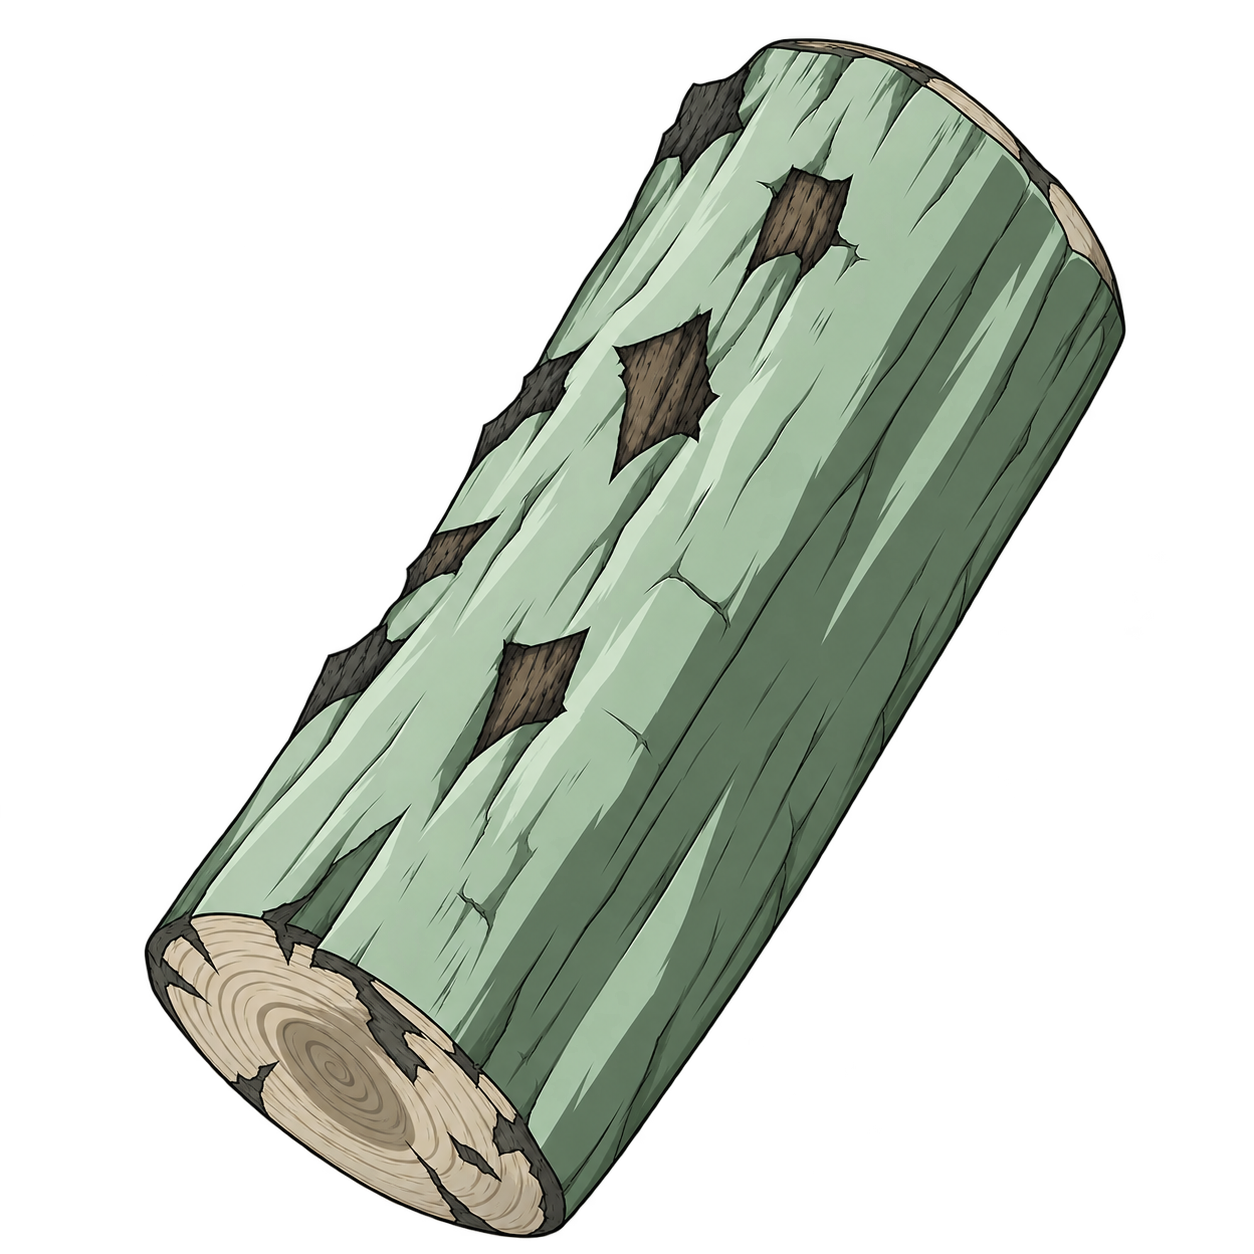
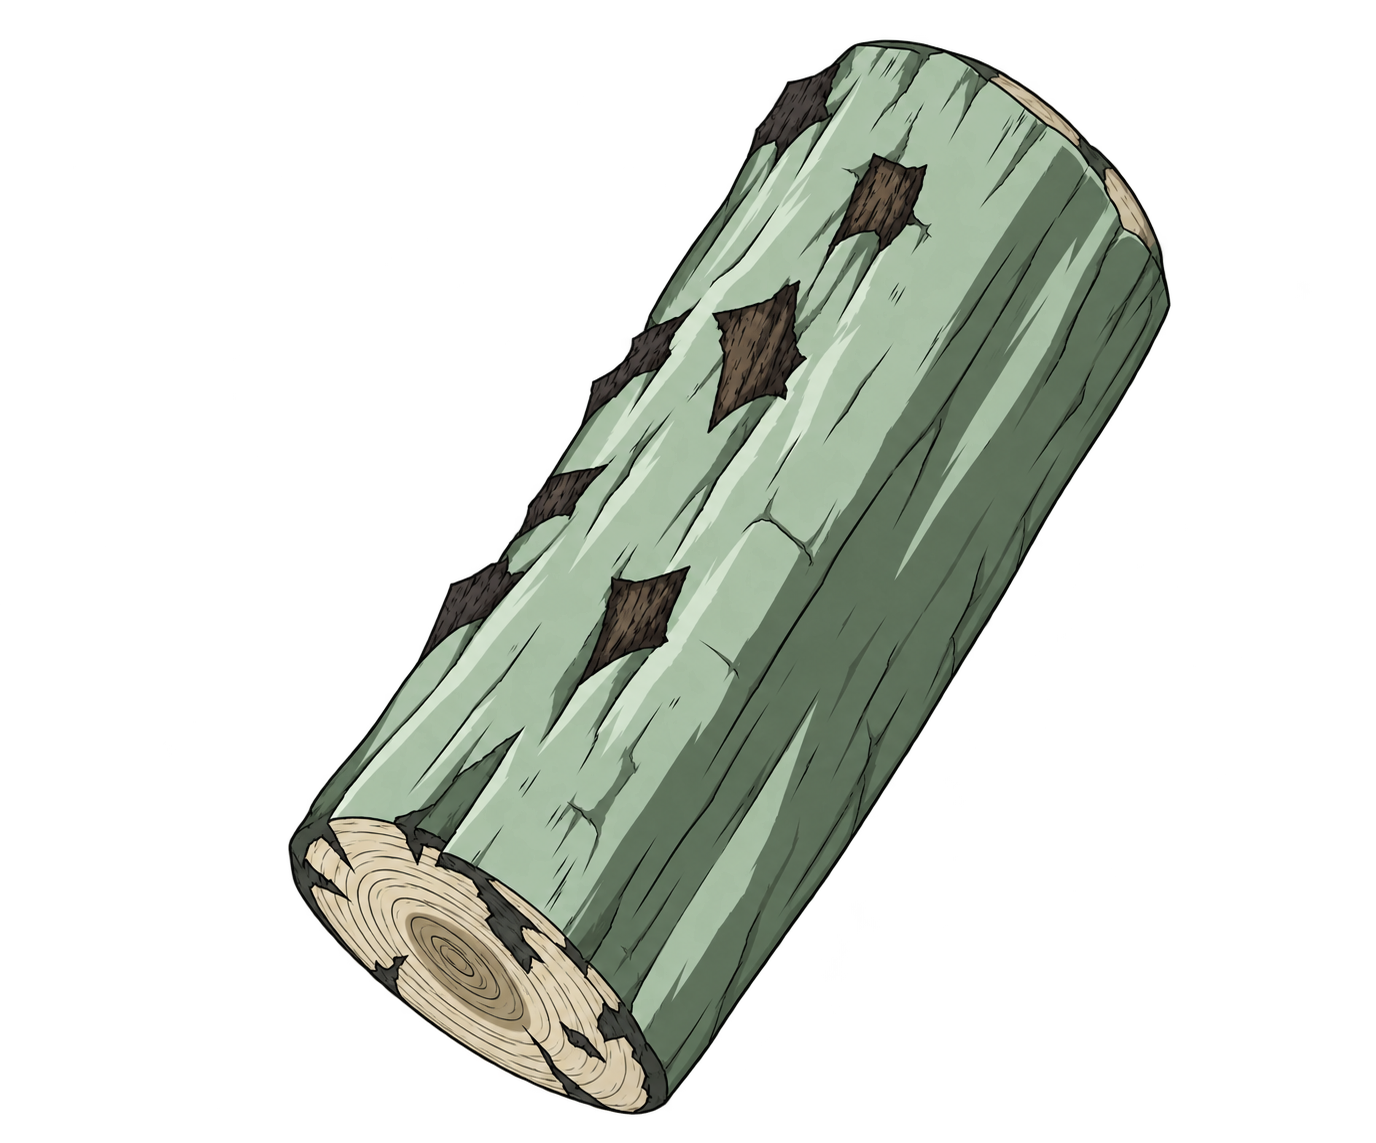
Manter somente o tronco classico e abrir o efeito diretamente
Preservar a animacao e o gesto da primeira versao, melhorar a mesma ilustracao anime do tronco e manter as correcoes de composicao alfa, fechamento e recalibracao. Remover a selecao dos demais efeitos e atualizar os guias.

Validacao: 44 testes automatizados aprovados; modelos, transparencia e audio verificados.

Changed region(s): [[0.0933, 0.0306, 0.9019, 1.0]]

diff --git a/vanish_cam.py b/vanish_cam.py
@@ -1,4 +1,4 @@
-"""Webcam locale: dissolvenza avviata dal gesto con indice e medio a V."""
+"""PeraVanishCam: substituicao classica por tronco com as maos juntas."""
 
 from __future__ import annotations
 
@@ -77,7 +77,7 @@ def positive_fps(value: str) -> float:
 
 def parse_args() -> argparse.Namespace:
     parser = argparse.ArgumentParser(
-        description="Escolha o efeito Normal ou Naruto para sua webcam."
+        description="Substituicao classica por tronco para sua webcam."
     )
     parser.add_argument("--camera", type=int, default=0, help="Numero da webcam (0 = primeira camera)")
     parser.add_argument("--width", type=int, default=960, help="Largura do video")
@@ -99,8 +99,8 @@ def parse_args() -> argparse.Namespace:
     )
     parser.add_argument("--virtual-device", help="Nome do dispositivo de camera virtual")
     parser.add_argument(
-        "--mode", choices=("normal", "naruto"),
-        help="Abrir diretamente o modo normal ou naruto",
+        "--mode", choices=("naruto",), default="naruto",
+        help="Efeito de substituicao por tronco (padrao: naruto)",
     )
     parser.add_argument(
         "--gesture-debug", action="store_true",
@@ -110,51 +110,6 @@ def parse_args() -> argparse.Namespace:
     parser.add_argument("--som", dest="sound", type=Path, help="Arquivo MP3 ou WAV para o efeito Naruto")
     parser.add_argument("--teste-som", action="store_true", help="Tocar o efeito uma vez, sem abrir a camera")
     return parser.parse_args()
-
-
-def choose_mode() -> str | None:
-    """Simple keyboard/mouse menu shown before the clean camera feed."""
-    title = "PeraVanishCam - Escolha o efeito"
-    selected = [None]
-    window = np.zeros((420, 700, 3), dtype=np.uint8)
-    window[:] = (26, 29, 34)
-    cv2.putText(window, "PERAVANISHCAM", (68, 88),
-                cv2.FONT_HERSHEY_SIMPLEX, 0.85, (236, 239, 242), 2, cv2.LINE_AA)
-    buttons = (
-        ("normal", "1  NORMAL VANISH", "Gesto em V  /  dissolver imagem", 140),
-        ("naruto", "2  NARUTO VANISH", "Maos juntas  /  tronco e fumaca", 260),
-    )
-    for mode, heading, detail, top in buttons:
-        cv2.rectangle(window, (65, top), (635, top + 94), (48, 54, 62), -1, cv2.LINE_AA)
-        cv2.rectangle(window, (65, top), (635, top + 94), (111, 142, 153), 2, cv2.LINE_AA)
-        cv2.putText(window, heading, (90, top + 38),
-                    cv2.FONT_HERSHEY_SIMPLEX, 0.77, (240, 245, 247), 2, cv2.LINE_AA)
-        cv2.putText(window, detail, (90, top + 68),
-                    cv2.FONT_HERSHEY_SIMPLEX, 0.53, (179, 195, 201), 1, cv2.LINE_AA)
-
-    def on_mouse(event, x, y, flags, userdata):
-        if event == cv2.EVENT_LBUTTONUP and 65 <= x <= 635:
-            for mode, _, _, top in buttons:
-                if top <= y <= top + 94:
-                    selected[0] = mode
-
-    cv2.namedWindow(title, cv2.WINDOW_AUTOSIZE)
-    cv2.setMouseCallback(title, on_mouse)
-    try:
-        while selected[0] is None:
-            cv2.imshow(title, window)
-            key = cv2.waitKey(30) & 0xFF
-            if key == ord("1"):
-                selected[0] = "normal"
-            elif key == ord("2"):
-                selected[0] = "naruto"
-            elif key in (ord("q"), 27):
-                return None
-            if cv2.getWindowProperty(title, cv2.WND_PROP_VISIBLE) < 1:
-                return None
-        return selected[0]
-    finally:
-        cv2.destroyWindow(title)
 
 
 def open_virtual_camera(args: argparse.Namespace, width: int, height: int):
@@ -190,7 +145,7 @@ def send_virtual_frame(camera, frame: np.ndarray) -> None:
     camera.send(np.ascontiguousarray(frame))
 
 
-def download_models(mode: str = "normal") -> None:
+def download_models(mode: str = "naruto") -> None:
     MODEL_DIR.mkdir(parents=True, exist_ok=True)
     for destination, url in MODEL_URLS.items():
         if mode == "naruto" and destination == GESTURE_MODEL:
@@ -244,7 +199,7 @@ def open_camera(index: int, width: int, height: int) -> cv2.VideoCapture:
     return capture
 
 
-def create_tasks(mode: str = "normal") -> tuple[vision.ImageSegmenter, MultiViewGestureRecognizer | MultiViewHandLandmarker]:
+def create_tasks(mode: str = "naruto") -> tuple[vision.ImageSegmenter, MultiViewGestureRecognizer | MultiViewHandLandmarker]:
     segmenter_options = vision.ImageSegmenterOptions(
         base_options=python.BaseOptions(model_asset_path=str(SEGMENTER_MODEL)),
         running_mode=vision.RunningMode.VIDEO,
@@ -636,7 +591,7 @@ def set_fullscreen(enabled: bool) -> None:
 
 def self_test() -> int:
     """Check bundled resources and model initialization without opening a webcam."""
-    required = (SEGMENTER_MODEL, GESTURE_MODEL, HAND_MODEL, SOUND_PATH)
+    required = (SEGMENTER_MODEL, HAND_MODEL, SOUND_PATH)
     missing = [path.name for path in required if not path.is_file()]
     if missing:
         raise RuntimeError(f"Arquivos necessarios ausentes: {', '.join(missing)}")
@@ -656,7 +611,7 @@ def self_test() -> int:
             os.environ.pop("SDL_AUDIODRIVER", None)
         else:
             os.environ["SDL_AUDIODRIVER"] = previous_driver
-    for mode in ("normal", "naruto"):
+    for mode in ("naruto",):
         segmenter, recognizer = create_tasks(mode)
         try:
             recognizer.close()
@@ -679,9 +634,7 @@ def run() -> int:
         finally:
             sound.close()
         return 0
-    mode = args.mode or choose_mode()
-    if mode is None:
-        return 0
+    mode = args.mode or "naruto"
     with ExitStack() as resources:
         return run_camera(args, resources, mode)
 
@@ -746,8 +699,6 @@ def run_camera(args: argparse.Namespace, resources: ExitStack, mode: str) -> int
             now = time.perf_counter()
             current_shape = (height, width)
             if frame_shape is not None and current_shape != frame_shape:
-                # A driver can renegotiate its frame size after opening. The
-                # old background/masks cannot be composited with the new size.
                 background = None
                 background_samples.clear()
                 state.phase = "calibrating"
@@ -879,6 +830,7 @@ def run_camera(args: argparse.Namespace, resources: ExitStack, mode: str) -> int
                 state.calibration_started = now
                 state.vanish_started = None
                 log_anchor = None
+                log_cache.clear()
                 last_mask = None
                 last_mask_at = float("-inf")
                 vanished_frame = None
@@ -891,6 +843,7 @@ def run_camera(args: argparse.Namespace, resources: ExitStack, mode: str) -> int
                     state.vanish_started = None
                     vanished_frame = None
                     log_anchor = None
+                    log_cache.clear()
                     last_mask = None
                     last_mask_at = float("-inf")
             elif key == ord("v") and background is not None:

diff --git a/test_naruto_effect.py b/test_naruto_effect.py
@@ -142,7 +142,7 @@ class EffectTests(unittest.TestCase):
         np.testing.assert_array_equal(output, expected)
 
 
-class MenuTests(unittest.TestCase):
+class StartupTests(unittest.TestCase):
     def test_removed_effects_cannot_be_selected_from_command_line(self):
         for mode in ("clones", "transformation"):
             with self.subTest(mode=mode), patch("sys.argv", ["PeraVanishCam", "--mode", mode]), patch("sys.stderr", new_callable=io.StringIO):
@@ -152,17 +152,12 @@ class MenuTests(unittest.TestCase):
         with patch("sys.argv", ["PeraVanishCam", "--mode", "naruto"]):
             self.assertEqual(app.parse_args().mode, "naruto")
 
-    def test_keyboard_selection(self):
-        with ExitStack() as mocks:
-            mocks.enter_context(patch.object(app.cv2, "getWindowProperty", return_value=1))
-            mocks.enter_context(patch.object(app.cv2, "namedWindow"))
-            mocks.enter_context(patch.object(app.cv2, "setMouseCallback"))
-            mocks.enter_context(patch.object(app.cv2, "imshow"))
-            mocks.enter_context(patch.object(app.cv2, "destroyWindow"))
-            key = mocks.enter_context(patch.object(app.cv2, "waitKey", return_value=ord("2")))
-            self.assertEqual(app.choose_mode(), "naruto")
-            key.return_value = ord("1")
-            self.assertEqual(app.choose_mode(), "normal")
+    def test_default_starts_classic_substitution_directly(self):
+        with patch("sys.argv", ["PeraVanishCam"]):
+            self.assertEqual(app.parse_args().mode, "naruto")
+        with patch("sys.argv", ["PeraVanishCam", "--mode", "normal"]), patch("sys.stderr"):
+            with self.assertRaises(SystemExit):
+                app.parse_args()
 
 
 class NarutoVideoLoopTests(unittest.TestCase):

diff --git a/README.md b/README.md
@@ -1,32 +1,22 @@
-<p align="center"><img src="assets/peravanishcam-banner.svg" alt="PeraVanishCam — por Bruno Michel Pera" width="100%"></p>
-
 # PeraVanishCam
 
-**Versão mantida e personalizada por Bruno Michel Pera.** Efeitos de desaparecimento para webcam, reconhecimento por gestos e som personalizado, com instruções em português.
+<p align="center"><strong>Download direto · Windows 64 bits · Não precisa instalar Python</strong><br>
+<a href="https://github.com/perabru/PeraVanishCam/releases/latest/download/PeraVanishCam.exe"><strong>Clique aqui para baixar PeraVanishCam.exe</strong></a> · <a href="https://github.com/perabru/PeraVanishCam/releases/latest/download/PeraVanishCam-Windows-x64.zip">Pacote ZIP com os guias</a></p>
 
-[Baixar para Windows](https://github.com/perabru/PeraVanishCam/releases/latest) · [Instalar e começar](docs/INSTALACAO_E_USO.md) · [Usar no Google Meet](GUIA_GOOGLE_MEET_PTBR.md) · [Apoiar com Pix](#apoie-com-pix)
+<p align="center"><img src="assets/peravanishcam-banner.svg" alt="PeraVanishCam — por Bruno Michel Pera" width="100%"></p>
 
-## Versão clássica restaurada
+**Versão mantida e personalizada por Bruno Michel Pera.** Substituição em tronco para webcam, com o efeito clássico da primeira versão, reconhecimento por mãos juntas e som personalizado. A imagem do tronco foi aprimorada mantendo o desenho e as cores originais.
 
-Esta edição retoma o menu, os gestos, a fumaça e a queda do tronco da primeira
-versão (1.0.1). Os modos de clones e de transformação foram removidos.
-O tronco mantém a ilustração original em verde suave, agora com contornos mais
-limpos, detalhes de madeira mais nítidos e composição com transparência sem halo.
+[Baixar o executável (.exe)](https://github.com/perabru/PeraVanishCam/releases/latest/download/PeraVanishCam.exe) · [Instalar e começar](docs/INSTALACAO_E_USO.md) · [Usar no Google Meet](GUIA_GOOGLE_MEET_PTBR.md) · [Apoiar com Pix](#apoie-com-pix)
 
-**[Baixar PeraVanishCam.exe](https://github.com/perabru/PeraVanishCam/releases/latest/download/PeraVanishCam.exe)**
+## Começar em quatro passos
 
-## Começar em cinco passos
+1. Clique em **[BAIXAR EXECUTÁVEL PARA WINDOWS (.EXE)](https://github.com/perabru/PeraVanishCam/releases/latest/download/PeraVanishCam.exe)** no início desta página.
+2. Abra **PeraVanishCam.exe** com dois cliques. A versão pronta não precisa de Python. Se preferir o pacote ZIP com os guias, extraia todos os arquivos antes de abrir.
+3. O efeito do tronco abre diretamente. Saia do enquadramento por **4 segundos** para capturar o fundo. Depois volte.
+4. Junte as palmas, com os dedos lado a lado e as duas mãos visíveis, ou pressione **V** na janela da câmera.
 
-1. Em **[Releases](https://github.com/perabru/PeraVanishCam/releases/latest)**, baixe **PeraVanishCam-Windows-x64.zip**.
-2. Extraia todos os arquivos e abra **PeraVanishCam.exe**. A versão pronta não precisa de Python.
-3. Escolha **1 — Normal** ou **2 — Naruto**.
-4. Saia do enquadramento por **4 segundos** para capturar o fundo. Depois volte.
-5. Faça o gesto do modo escolhido ou pressione **V** na janela da câmera.
-
-| Modo | Como ativar | Efeito |
-| --- | --- | --- |
-| Normal | Indicador e médio formando V | Desaparecimento gradual |
-| Naruto | Palmas juntas, dedos lado a lado, duas mãos visíveis | Fumaça, tronco e som ao desaparecer |
+Você desaparece com a fumaça original, o tronco cai e permanece no cenário. Pressione **R** para reaparecer.
 
 O vídeo é processado no seu computador. O aplicativo não grava a câmera nem envia suas imagens para servidores. Depois de baixar o executável, os modelos necessários já estão no pacote.
 
@@ -38,7 +28,7 @@ O vídeo é processado no seu computador. O aplicativo não grava a câmera nem 
 
 | Tecla | Ação |
 | --- | --- |
-| V | Ativar o efeito; no Naruto também toca o som |
+| V | Ativar o efeito do tronco e tocar o som |
 | R | Reaparecer |
 | Espaço | Capturar novamente o fundo; saia do quadro por 4 segundos |
 | F | Alternar tela cheia |
@@ -48,7 +38,7 @@ Clique na janela da câmera antes de usar as teclas. Mantenha a câmera parada d
 
 ## Personalizar o som
 
-Coloque **som.mp3** ou **som.wav** na mesma pasta de **PeraVanishCam.exe** e reabra o aplicativo. O arquivo será utilizado no modo Naruto. Se os dois existirem, o MP3 tem prioridade. Remova ou renomeie o arquivo para voltar ao som padrão.
+Coloque **som.mp3** ou **som.wav** na mesma pasta de **PeraVanishCam.exe** e reabra o aplicativo. O arquivo será utilizado no efeito do tronco. Se os dois existirem, o MP3 tem prioridade. Remova ou renomeie o arquivo para voltar ao som padrão.
 
 Use **TESTAR_SOM.bat** para testar o áudio sem abrir a câmera.
 

diff --git a/assets/README.md b/assets/README.md
@@ -1,27 +1,16 @@
-# Substitution log sprite
+# Tronco de substituição
 
-`substitution_log.png` was generated with the built-in ImageGen tool. The user
-image was used as a visual reference for object shape and mood, not as an edit
-target. The sprite is an original transparent-background illustration.
+`substitution_log.png` é uma ilustração original com fundo transparente, gerada
+com ImageGen e aprimorada a partir da imagem da primeira versão. A edição
+preserva o tronco diagonal, a casca verde-sálvia, a ponta cortada à esquerda e
+o acabamento de anime com cel shading.
 
-Final prompt:
+Prompt da edição:
 
-> Create a single ORIGINAL 2D hand-painted anime-style game sprite for live video compositing, using the user's attached image ONLY as a visual reference for the object and mood. Subject: one short thick wooden substitution log floating diagonally (bottom-left to top-right), soft desaturated pale sage-green bark with visible wood grain, dark ink cracks and small dark notches, round cut end with concentric wood rings visible at lower-left. Dramatic clean silhouette, strong cel shading and highlights, polished Japanese animation look. Center the entire log, leave a modest transparent margin around all edges. NO smoke, NO particles, NO background, NO scenery, NO shadow outside the object, NO people, NO text, NO symbols or logos. True transparent alpha background; isolated cutout. Asset should be immediately usable as a sprite over live webcam video.
+> Aprimore a definição do tronco original para composição em vídeo. Preserve a
+> silhueta, a inclinação diagonal, as proporções, as cores verde-sálvia, os anéis
+> da madeira e o estilo anime com cel shading. Refine linhas e texturas sem mudar
+> o desenho. Mantenha transparência real. Não acrescente fumaça, cenário, texto
+> ou outros objetos; não transforme a ilustração em uma fotografia.
 
-For smoke, the app uses its own procedurally animated shapes in
-`naruto_effect.py`. A [CC0 smoke sprite sheet](https://opengameart.org/content/smoke-sprite-sheet)
-was reviewed but is not included because the procedural smoke scales and follows
-the detected person dynamically.
-
-## Classic sprite quality update
-
-The current sprite is a faithful ImageGen edit of the 1.0.1 illustration.
-The same diagonal log, sage-green bark, ink cracks, cel shading and visible
-wood rings are retained. The PNG uses true alpha. The renderer resizes with
-premultiplied alpha to avoid edge halos and keeps a bounded size cache.
-
-Edit prompt: Improve only the image fidelity of the original first-version log:
-clean sharp contours, high-resolution linework, clearer wood grain, no noisy
-fringe. Preserve its design, diagonal orientation, colors, proportions, cel
-shading and framing. No photorealistic redesign, branches, smoke, ground, text
-or additional objects. Entire object visible on a true transparent background.
+A fumaça mantém as formas animadas originais de `naruto_effect.py`.

diff --git a/GUIA_GOOGLE_MEET_PTBR.md b/GUIA_GOOGLE_MEET_PTBR.md
@@ -4,7 +4,7 @@
 
 1. Instale o [OBS Studio para Windows](https://obsproject.com/download), que inclui OBS Virtual Camera.
 2. Feche o OBS e as abas do Google Meet antes de abrir o PeraVanishCam.
-3. Abra `PeraVanishCam.exe` e escolha **2 — Naruto** para usar fumaça, tronco e som.
+3. Abra `PeraVanishCam.exe`. O efeito clássico de fumaça, tronco e som inicia diretamente.
 4. Saia do enquadramento durante 4 segundos. Quando o terminal informar que o fundo está pronto, volte.
 5. Abra o Meet e selecione **Configurações → Vídeo → Câmera → OBS Virtual Camera**.
 6. Mantenha o PeraVanishCam aberto durante a chamada. Neste modo, deixe o OBS fechado: o PeraVanishCam usa diretamente a câmera virtual.
@@ -33,7 +33,7 @@ A câmera virtual envia a imagem. Para misturar seu microfone com o som do PeraV
 | Meet: câmera | OBS Virtual Camera |
 
 7. No Meet, desative **Cancelamento de ruído**, se essa opção estiver disponível. Ele pode remover efeitos sonoros e outros sons que não sejam voz.
-8. Com o PeraVanishCam aberto no modo Naruto, pressione **V** na janela da câmera. Você deve ouvir o efeito e ver atividade no medidor de microfone do Meet.
+8. Com o PeraVanishCam aberto, pressione **V** na janela da câmera. Você deve ouvir o efeito e ver atividade no medidor de microfone do Meet.
 9. Teste com outro participante, preferencialmente usando fones.
 
 **Evitar eco:** mantenha os alto-falantes do Meet no fone físico. Se o áudio recebido do Meet entrar novamente na coluna VAIO enviada ao B1, os participantes poderão ouvir a própria voz de volta.
@@ -44,11 +44,11 @@ Ao terminar, você pode voltar a saída de som do Windows para seu fone e o micr
 
 ## 3. Trocar o efeito sonoro
 
-O som toca no modo **Naruto**, tanto pelo gesto de mãos juntas quanto pela tecla **V**. O modo Normal mantém o efeito visual de dissolução.
+O som toca junto ao efeito do tronco, tanto pelo gesto de mãos juntas quanto pela tecla **V**.
 
 1. Feche o PeraVanishCam.
 2. Coloque um arquivo de áudio chamado **som.mp3** ou **som.wav** na mesma pasta de `PeraVanishCam.exe`.
-3. Abra o programa novamente e escolha Naruto. O arquivo externo será utilizado automaticamente.
+3. Abra o programa novamente. O arquivo externo será utilizado automaticamente.
 4. Se existirem os dois arquivos, `som.mp3` tem prioridade. Para voltar ao som incluído no programa, remova ou renomeie os arquivos externos.
 
 Também é possível indicar outro nome ou caminho em um terminal aberto na pasta do programa:
@@ -71,7 +71,7 @@ Clique na janela da câmera antes de usar o teclado.
 
 | Tecla | Função |
 | --- | --- |
-| V | Desaparecer e, no modo Naruto, tocar o som |
+| V | Desaparecer, mostrar o tronco e tocar o som |
 | R | Reaparecer |
 | Espaço | Capturar o fundo novamente; saia do quadro por 4 segundos |
 | F | Alternar tela cheia |

diff --git a/docs/INSTALACAO_E_USO.md b/docs/INSTALACAO_E_USO.md
@@ -20,14 +20,12 @@ O pacote é portátil. Para mudar de pasta, copie a pasta extraída inteira. Par
 ## Primeira execução
 
 1. Feche outros aplicativos que estejam utilizando sua webcam.
-2. Escolha o modo **Normal** ou **Naruto** no menu.
+2. Abra o aplicativo; o efeito do tronco inicia diretamente.
 3. Saia completamente do enquadramento durante 4 segundos.
 4. Aguarde a mensagem **Fundo pronto** no terminal.
 5. Volte para a câmera, mantendo o cenário e a iluminação estáveis.
 
-**Normal:** forme um V com os dedos indicador e médio.
-
-**Naruto:** junte as palmas com os dedos lado a lado, sem entrelaçar. Mantenha as duas mãos visíveis. A pessoa desaparece com fumaça, um tronco aparece e o efeito sonoro é reproduzido.
+Junte as palmas com os dedos lado a lado, sem entrelaçar. Mantenha as duas mãos visíveis. A pessoa desaparece com a fumaça clássica da primeira versão, o tronco cai e o efeito sonoro é reproduzido. A imagem mantém o desenho original com mais definição.
 
 ## Teclas
 
@@ -45,7 +43,7 @@ Clique na janela da câmera antes de usar o teclado. Ao capturar novamente o fun
 
 1. Feche o aplicativo.
 2. Coloque um arquivo **som.mp3** ou **som.wav** ao lado de **PeraVanishCam.exe**.
-3. Abra o aplicativo e escolha Naruto.
+3. Abra o aplicativo novamente.
 4. Pressione V para conferir o efeito com o som.
 
 O MP3 tem prioridade se os dois arquivos estiverem presentes. Para voltar ao áudio padrão, remova ou renomeie os arquivos externos. Use **TESTAR_SOM.bat** para ouvir o som sem abrir a câmera.
@@ -71,7 +69,7 @@ Siga o [guia completo](../GUIA_GOOGLE_MEET_PTBR.md). Ele explica como instalar a
 | Nenhuma imagem | Confira as permissões de câmera do Windows e teste outra câmera com `--camera 1` |
 | Fundo ficou com sua imagem | Pressione Espaço e saia totalmente do quadro por 4 segundos |
 | Gesto não reconhecido | Melhore a iluminação e mantenha a mão visível; use V para testar o efeito |
-| Som não toca | Escolha Naruto, confira volume e dispositivo de saída e execute TESTAR_SOM.bat |
+| Som não toca | Confira volume e dispositivo de saída e execute TESTAR_SOM.bat |
 | Meet não recebe o vídeo | Instale OBS Studio, reabra o navegador e escolha OBS Virtual Camera |
 | Meet não recebe o efeito sonoro | Configure o áudio virtual conforme o guia do Meet |
 
